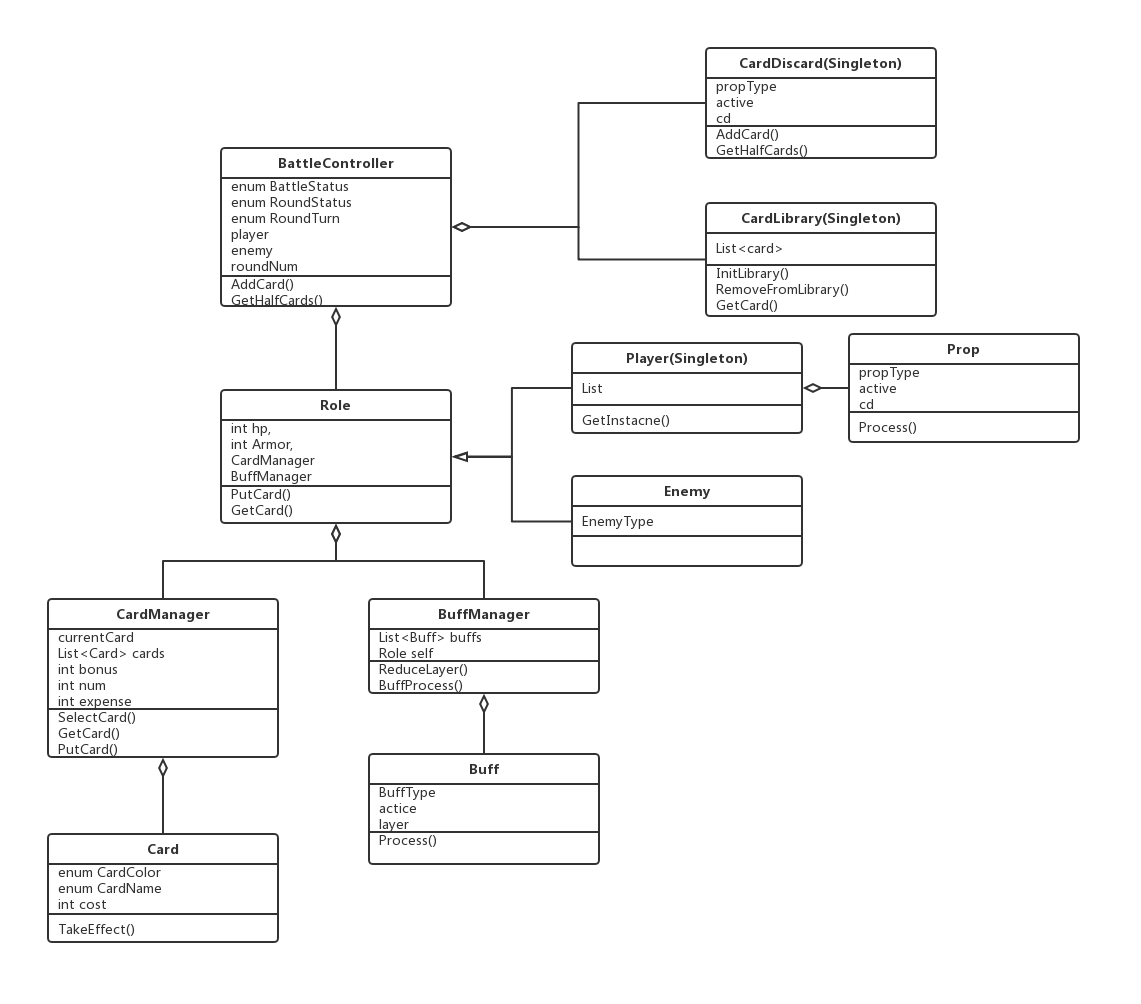
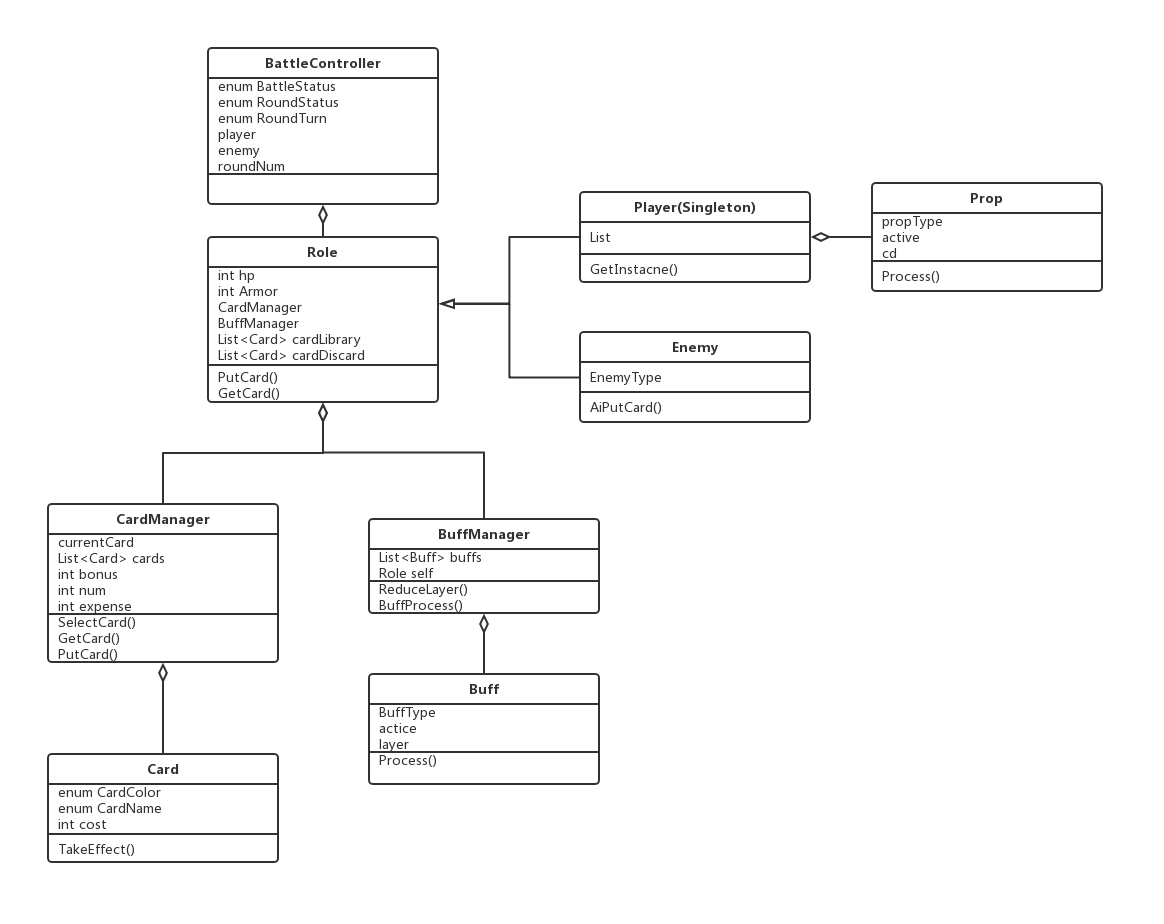
小修改以及readme

diff --git a/Assets/Scripts/Controller/BattleSystem.cs b/Assets/Scripts/Controller/BattleSystem.cs
@@ -133,28 +133,24 @@ public class BattleSystem : MonoBehaviour
 
     void RoundBegin()
     {
+        Debug.Log("轮到" + roundTurn.ToString() + "的回合");
+
         switch (roundTurn)
         {
             case RoundTurn.PlayerRound:
 
                 player.GetCardManager.ExpenseReset();
 
-                if (player.GetCardManager.CanAddCard)
-                {
-                    Debug.Log("player get 3 cards");
-                    player.GetCardsFromLibrary(3);
-                }
+                player.GetCardsFromLibrary(3);
+
 
                 break;
 
             case RoundTurn.EnemyRound:
+
                 enemy.GetCardManager.ExpenseReset();
 
-                if (enemy.GetCardManager.CanAddCard)
-                {
-                    Debug.Log("enemy get 3 cards");
-                    enemy.GetCardsFromLibrary(3);
-                }
+                enemy.GetCardsFromLibrary(3);
 
                 //enemy.BuffReduceLayer();
 
@@ -247,7 +243,6 @@ public class BattleSystem : MonoBehaviour
 
             case RoundStatus.Rounding:
                 roundStatus = RoundStatus.Rounding;
-                Debug.Log("轮到" + roundTurn.ToString() + "的回合");
                 break;
         }
 

diff --git a/Assets/Scripts/Model/Player.cs b/Assets/Scripts/Model/Player.cs
@@ -115,6 +115,7 @@ public class Player : Role
             }
         }
 
+        Debug.Log(System.Reflection.MethodBase.GetCurrentMethod().DeclaringType.FullName + "获得" + num + "张牌");
         cardManager.view.ShowPlayerCards();
 
     }

diff --git a/Assets/Scripts/Model/Enemy.cs b/Assets/Scripts/Model/Enemy.cs
@@ -86,6 +86,7 @@ public class Enemy : Role
             }
         }
 
+        Debug.Log(System.Reflection.MethodBase.GetCurrentMethod().DeclaringType.FullName + "获得" + num + "张牌");
         cardManager.view.ShowEnemyCards();
     }
 

diff --git a/Assets/Scripts/Model/EnemyCardManager.cs b/Assets/Scripts/Model/EnemyCardManager.cs
@@ -189,8 +189,6 @@ public class EnemyCardManager : CardManager
             currentCard = temp;
             temp = Card.EmptyCard;
         }
-        Debug.Log(currentCard.cardname);
-
 
     }
 

diff --git a/readme.md b/readme.md
@@ -2,6 +2,13 @@
 
 a rogue-like card game
 
+
+## 5.26
+
+- 删除了CardLibrary和CardDiscard脚本，直接在Role中用List<>表示
+- 修改结束回合按钮的bug
+
+
 ## 5.15
 
 1. 修改view的架构
